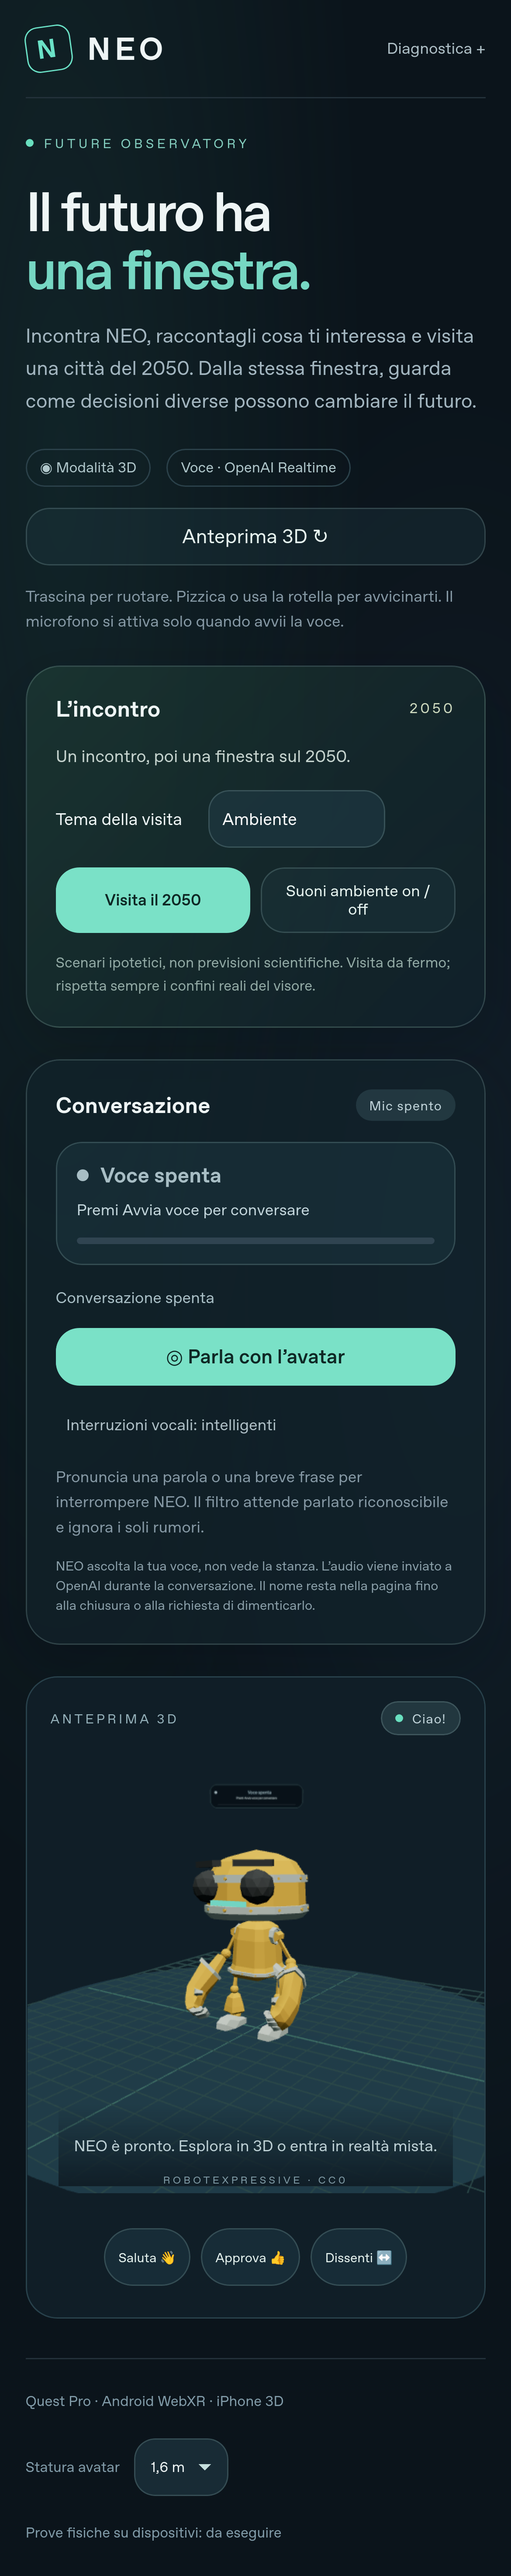
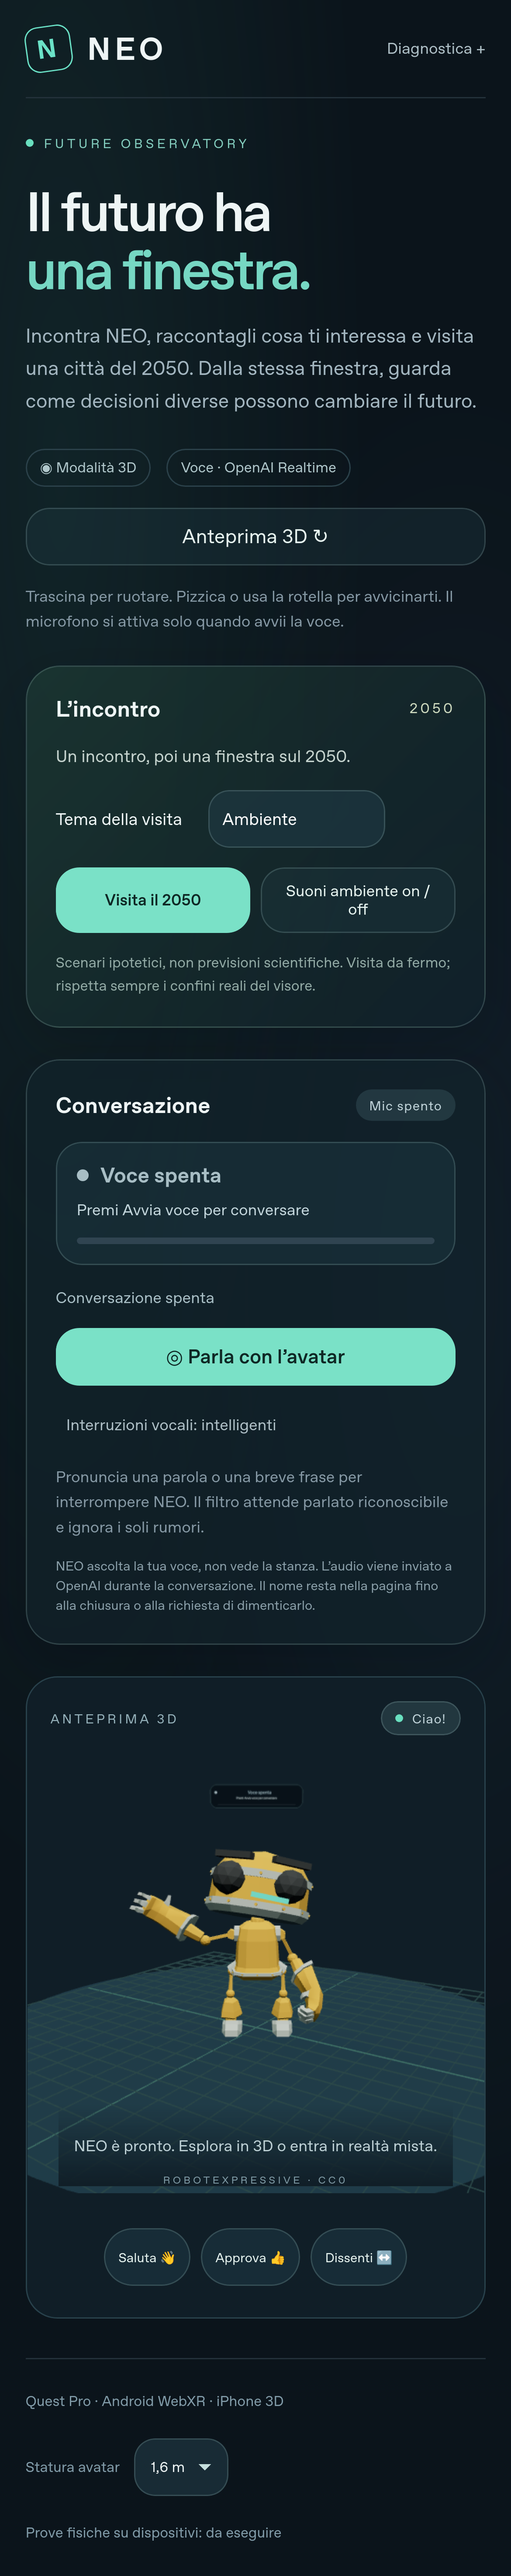
Keep controls lightweight and ignore speech preceding an explicit reset

Changed region(s): [[0.2769, 0.7179, 0.6462, 0.8115]]

diff --git a/tests/e2e/observatory.spec.ts b/tests/e2e/observatory.spec.ts
@@ -214,7 +214,7 @@ test("keeps the eight-second fade on wall time when graphics run at less than on
   await page.getByRole("combobox", { name: "Tema della visita" }).selectOption("social");
   await page.getByRole("button", { name: "Visita il 2050" }).click();
   await expect(page.getByRole("heading", { name: "Futuro critico", exact: true })).toBeVisible({ timeout: 20000 });
-  await page.locator("canvas").scrollIntoViewIfNeeded();
+  await page.locator("canvas").evaluate((canvas) => canvas.scrollIntoView({ block: "center", behavior: "instant" }));
   await page.evaluate(() => {
     window.requestAnimationFrame = (callback) => window.setTimeout(() => callback(performance.now()), 2200);
   });
@@ -240,7 +240,7 @@ test("acknowledges narrative controls while graphics frames are paused", async (
     page.getByRole("heading", { name: "Futuro critico", exact: true }),
   ).toBeVisible({ timeout: 20000 });
   // Start from an actively rendering canvas before installing the RAF pause.
-  await page.locator("canvas").scrollIntoViewIfNeeded();
+  await page.locator("canvas").evaluate((canvas) => canvas.scrollIntoView({ block: "center", behavior: "instant" }));
   await page.evaluate(() => {
     const original = window.requestAnimationFrame.bind(window);
     const pending: FrameRequestCallback[] = [];

diff --git a/tests/realtime-client.test.ts b/tests/realtime-client.test.ts
@@ -798,3 +798,18 @@ it("reopens protected capture when both response completion and playback stop di
   const sent = FakePeer.latest.channel.send.mock.calls.map(([data]) => JSON.parse(data));
   expect(sent.some((e) => e.type === "output_audio_buffer.clear")).toBe(true);
 });
+
+
+it("ignores stale transcription after explicit listening reset but accepts the next turn", async () => {
+  getUserMedia.mockResolvedValue(mic().stream);
+  await client.start();
+  const deliver = (event: object) => (FakePeer.latest.channel.onmessage as (e: { data: string }) => void)({ data: JSON.stringify(event) });
+  deliver({ type: "input_audio_buffer.speech_started", item_id: "old", audio_start_ms: 1000 });
+  deliver({ type: "input_audio_buffer.speech_stopped", item_id: "old", audio_end_ms: 1800 });
+  client.interrupt();
+  deliver({ type: "conversation.item.input_audio_transcription.completed", item_id: "old", transcript: "Domanda precedente" });
+  expect(client.snapshot.activity).toBe("ready");
+  deliver({ type: "conversation.item.input_audio_transcription.completed", item_id: "new", transcript: "Mi senti adesso?" });
+  const sent = FakePeer.latest.channel.send.mock.calls.map(([data]) => JSON.parse(data));
+  expect(sent.filter((e) => e.type === "response.create")).toHaveLength(1);
+});

diff --git a/src/styles.css b/src/styles.css
@@ -205,8 +205,6 @@ h1 span {
   border-radius: 26px;
   background: var(--glass);
   box-shadow: var(--glass-shadow);
-  backdrop-filter: blur(16px);
-  -webkit-backdrop-filter: blur(16px);
   max-width: 450px;
 }
 .panel-heading {
@@ -517,8 +515,6 @@ select {
   border-radius: 26px;
   background: linear-gradient(135deg, rgba(33, 66, 56, .55), rgba(17, 35, 44, .6));
   box-shadow: var(--glass-shadow);
-  backdrop-filter: blur(16px);
-  -webkit-backdrop-filter: blur(16px);
 }
 .year-tag {
   font-size: 11px;
@@ -588,7 +584,7 @@ select {
 .voice-panel > .secondary { margin: 0 6px 8px 0; }
 .voice-panel > .text-button { padding: 10px 8px; font-size: 12px; }
 .voice-panel .hint { margin-top: 8px; }
-.stage-top .status-pill { border: 1px solid var(--glass-border); backdrop-filter: blur(8px); }
+.stage-top .status-pill { border: 1px solid var(--glass-border); }
 select option { background: #172f39; color: #eef5f5; }
 
 select {

diff --git a/tests/e2e/preview.spec.ts b/tests/e2e/preview.spec.ts
@@ -2,6 +2,8 @@ import { expect, test } from "@playwright/test";
 test("local GLB renders, touch/resize work, emotes finish and no microphone request on load", async ({
   page,
 }) => {
+  // Includes a full-page software-rendered screenshot after the interaction checks.
+  test.setTimeout(60000);
   const errors: string[] = [];
   page.on("pageerror", (error) => errors.push(error.message));
   await page.addInitScript(() => {

diff --git a/src/audio/realtimeClient.ts b/src/audio/realtimeClient.ts
@@ -909,6 +909,7 @@ export class RealtimeClient {
     this.outputResponseId = undefined;
     for (const timer of this.transcriptionTimers.values()) clearTimeout(timer);
     this.transcriptionTimers.clear();
+    for (const id of this.utterances.keys()) this.remember(this.answeredItems, id);
     this.utterances.clear();
     this.blockMicrophone(false);
     this.patch({

diff --git a/docs/VOICE_UX.md b/docs/VOICE_UX.md
@@ -35,15 +35,15 @@ Il nuovo feedback segnala una traccia apparentemente accesa senza voce ricevuta 
 
 ### Pannelli e scheda NEO
 
-Pagina, selettori, posizionamento e diagnostica condividono bordi sottili, angoli morbidi e superfici traslucide. In XR si usano texture canvas con alpha: 64% per il pannello e 58% per la scheda, senza blur o effetti XR. La scheda non scrive nel depth buffer: anche gli angoli trasparenti lasciano vedere la scena. Posa dei menu, dimensioni cliccabili, raggi e stick restano quelli già verificati. Nessun nuovo asset o segreto.
+Pagina, selettori, posizionamento e diagnostica condividono bordi sottili, angoli morbidi e superfici traslucide. Anche i pannelli web evitano il backdrop blur per contenere il carico di compositing. In XR si usano texture canvas con alpha: 64% per il pannello e 58% per la scheda, senza blur o effetti XR. La scheda non scrive nel depth buffer: anche gli angoli trasparenti lasciano vedere la scena. Posa dei menu, dimensioni cliccabili, raggi e stick restano quelli già verificati. Nessun nuovo asset o segreto.
 
 Anteprime in [validation/voice-glass-ui](validation/voice-glass-ui): desktop e iPhone sul runtime Sites locale; `xr-panels-simulated.png` usa i componenti reali in un harness Three.js con edifici di prova, senza sessione XR. Le immagini attestano l'ispezione visiva, non compositing, comfort o leggibilità sul visore.
 
 ### Verifiche
 
-- Repository: lint, typecheck, build, scansione del bundle e **180 test** superati.
-- Sites: typecheck, build e **171 test** superati.
+- Repository: lint, typecheck, build, scansione del bundle e **181 test** superati.
+- Sites: typecheck, build e **172 test** superati.
 - Dialogo browser: **3/3 profili**, tre scambi consecutivi, traccia sospesa e riacquisita, mute, cambio tema e stop con render loop fermato. Audio/WebRTC/OpenAI simulati.
-- Undici nuove regressioni coprono invio bloccato con traccia live, silenzio/DTX, recupero fallito, stop durante acquisizione, visibilità XR, eventi risposta persi, delta di interruzione e VAD non chiuso.
+- Dodici nuove regressioni coprono invio bloccato con traccia live, silenzio/DTX, recupero fallito, stop durante acquisizione, visibilità XR, eventi risposta persi, delta di interruzione e VAD non chiuso. Una trascrizione tardiva precedente a un reset esplicito non genera una risposta inattesa.
 
 Sul Quest: riprovare almeno cinque scambi, interruzione con parola, rumore, menu di sistema, cambi scenario e ritorno MR. Se NEO non sente, controllare la barra locale e **Invio microfono** nella diagnostica; usare **Riprendi ascolto** e annotare se compare **Microfono da ripristinare**. Permessi hardware, voce, eco, latenza e 72 FPS restano da verificare fisicamente.
